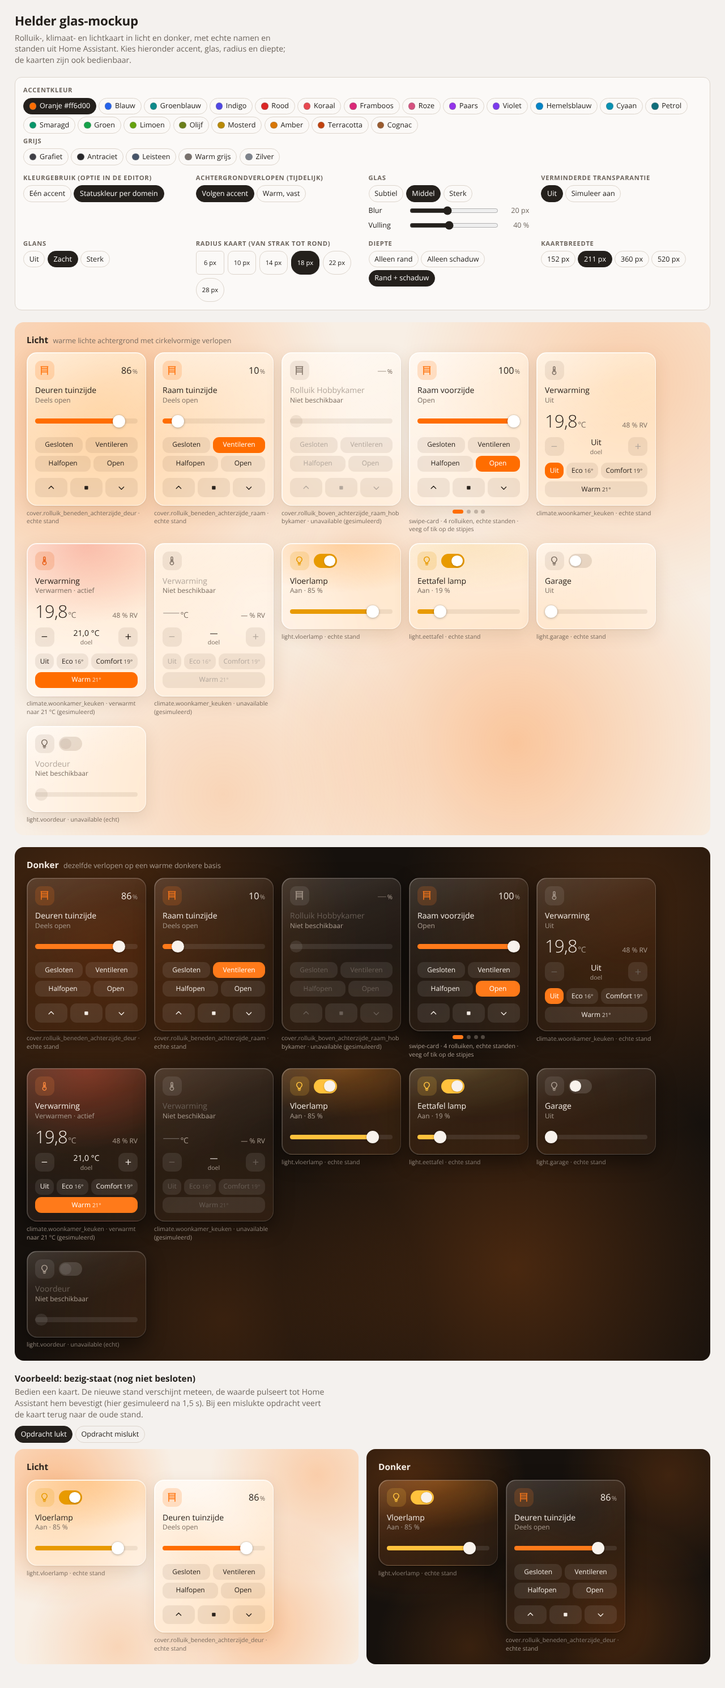
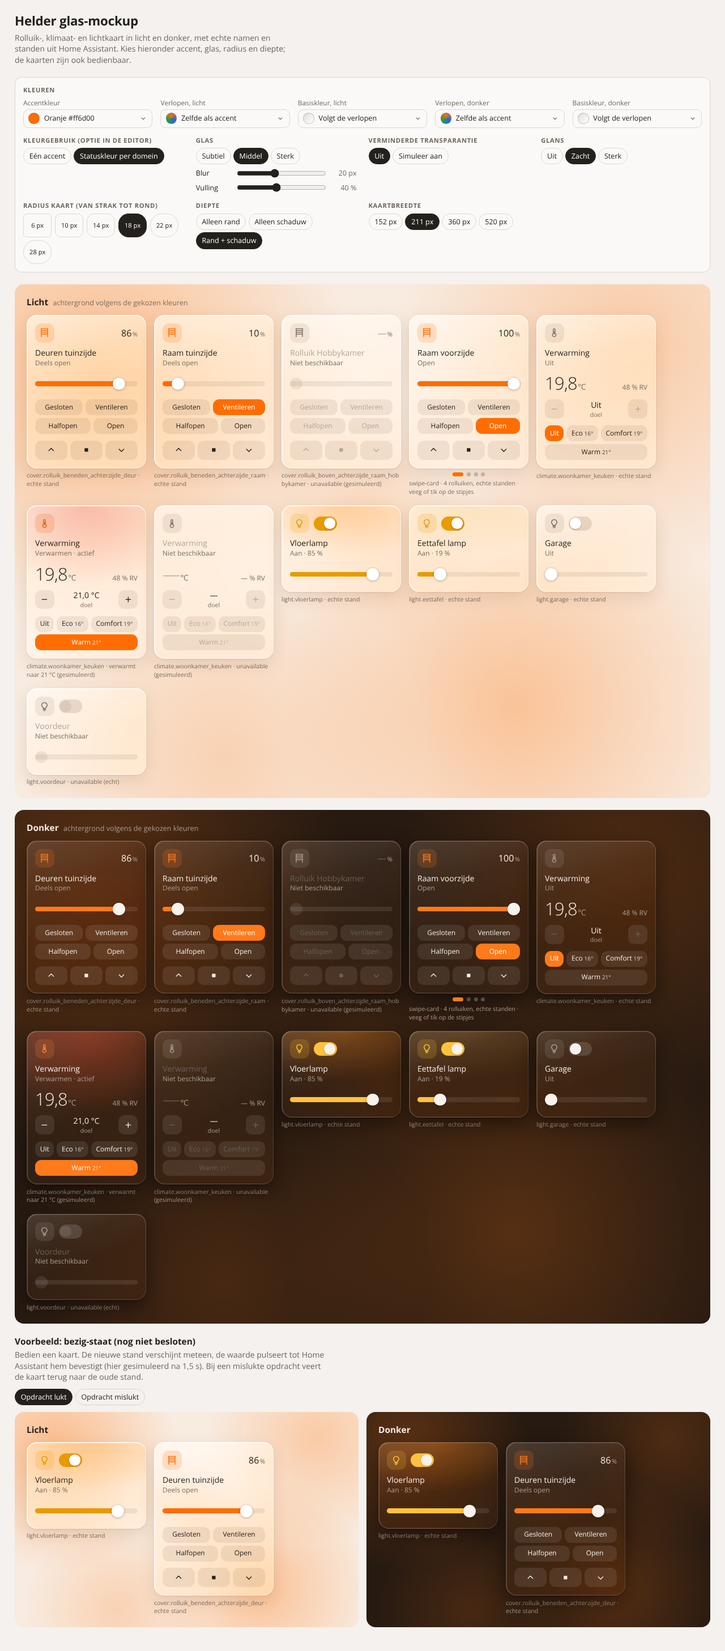
mockup: colour picker with wheel, light palette, separate gradient and base colours per mode; docs: settings page
Claude-Session: https://claude.ai/code/session_0188TZibxehgLpvZx4MTqWFe

diff --git a/mockup/glass.html b/mockup/glass.html
@@ -92,6 +92,45 @@ header p { margin: .3rem 0 0; color: var(--page-muted); max-width: 60ch; }
 .stage-title { display: flex; align-items: baseline; gap: .6rem; margin: 0 0 .8rem; font-size: 1.1rem; font-weight: 700; }
 .stage-title span { font-weight: 400; font-size: .9rem; color: var(--helder-color-text-muted); }
 
+/* ---------- Kleurkiezer (deel van de instellingenpagina) ---------- */
+.slots { display: grid; grid-template-columns: repeat(auto-fill, minmax(min(100%, 14rem), 1fr)); gap: .5rem 1rem; }
+.slot { display: grid; gap: .25rem; min-width: 0; }
+.slot > span { font-size: .85rem; color: var(--page-muted); }
+.swbtn {
+  font: inherit; font-size: .9rem; display: flex; align-items: center; gap: .55rem; min-width: 0;
+  padding: .4rem .6rem; border-radius: 10px; border: 1px solid var(--page-line); background: transparent; color: var(--page-fg); cursor: pointer; text-align: left;
+}
+.swbtn .sw { width: 1.4rem; height: 1.4rem; flex: none; }
+.swbtn .swname { flex: 1; min-width: 0; white-space: nowrap; overflow: hidden; text-overflow: ellipsis; }
+.swbtn svg { width: 1rem; height: 1rem; flex: none; color: var(--page-muted); }
+.swbtn:focus-visible { outline: 2px solid var(--page-fg); outline-offset: 2px; }
+.popwrap { position: fixed; inset: 0; z-index: 30; display: grid; place-items: center; padding: 16px; background: rgba(20, 16, 12, .35); }
+.pop {
+  width: min(30rem, 100%); max-height: calc(100vh - 32px); overflow: auto; display: grid; gap: .9rem;
+  background: var(--page-panel); color: var(--page-fg); border: 1px solid var(--page-line); border-radius: 14px;
+  box-shadow: 0 16px 48px rgba(0, 0, 0, .3); padding: 1rem 1.1rem 1.1rem;
+}
+.pop h3 { margin: 0; font-size: 1.05rem; font-weight: 700; }
+.pop .grp { display: grid; gap: .35rem; }
+.swgrid { display: grid; grid-template-columns: repeat(auto-fill, 1.9rem); gap: .45rem; }
+.swatch { width: 1.9rem; height: 1.9rem; border-radius: 50%; border: 1px solid rgba(127, 127, 127, .35); cursor: pointer; padding: 0; }
+.swatch[aria-pressed="true"] { outline: 2px solid var(--page-fg); outline-offset: 2px; }
+.swatch:focus-visible { outline: 2px solid var(--page-fg); outline-offset: 2px; }
+.wheelrow { display: flex; flex-wrap: wrap; gap: 1rem; align-items: flex-start; }
+.wheel { width: 10.5rem; height: 10.5rem; position: relative; flex: none; touch-action: none; cursor: crosshair; }
+.wheel canvas { width: 100%; height: 100%; border-radius: 50%; display: block; }
+.wheel .mark { position: absolute; width: 1rem; height: 1rem; margin: -.5rem 0 0 -.5rem; border-radius: 50%; border: 2px solid #fff; box-shadow: 0 0 0 1px rgba(0,0,0,.4), 0 1px 3px rgba(0,0,0,.4); pointer-events: none; }
+.wheelside { display: grid; gap: .55rem; flex: 1 1 11rem; min-width: 0; }
+.wheelside label { display: grid; gap: .2rem; font-size: .85rem; color: var(--page-muted); }
+.hexin { font: inherit; font-size: 16px; padding: .35rem .5rem; border-radius: 8px; border: 1px solid var(--page-line); background: var(--page-bg); color: var(--page-fg); width: 100%; }
+.pv { display: grid; grid-template-columns: 1fr 1fr; gap: .4rem; }
+.pvbox { border-radius: 10px; padding: .6rem; display: grid; gap: .45rem; min-height: 4.6rem; align-content: end; }
+.pvbox .pchip { justify-self: start; font-size: .8rem; padding: .25rem .6rem; border-radius: 8px; }
+.pvbox .pbar { height: .4rem; border-radius: 999px; }
+.popbtns { display: flex; justify-content: flex-end; gap: .5rem; flex-wrap: wrap; }
+.popbtns button { font: inherit; font-size: .9rem; padding: .45rem .9rem; border-radius: 999px; border: 1px solid var(--page-line); background: transparent; color: var(--page-fg); cursor: pointer; }
+.popbtns button.primary { background: var(--page-sel); color: var(--page-on-sel); border-color: var(--page-sel); }
+
 /* ---------- Helder-tokens per modus ---------- */
 .stage {
   /* waarden die het paneel zet */
@@ -161,7 +200,7 @@ header p { margin: .3rem 0 0; color: var(--page-muted); max-width: 60ch; }
 /* accentkleur: per modus gezet vanuit het paneel (zie ACCENTS in het script) */
 /* achtergrondkleur: los van het accent te kiezen. "Warm" houdt de vaste warme verlopen; anders kleuren de
    verlopen én (licht) de basis mee met --helder-bg-tint. */
-[data-bg="tint"] .stage[data-mode="light"] {
+.stage[data-bg="tint"][data-mode="light"] {
   --helder-color-bg: color-mix(in srgb, var(--helder-bg-tint) 7%, #f8f4f0);
   --helder-bg-blob-1: color-mix(in srgb, var(--helder-bg-tint) 38%, transparent);
   --helder-bg-blob-2: color-mix(in srgb, var(--helder-bg-tint) 26%, transparent);
@@ -169,7 +208,7 @@ header p { margin: .3rem 0 0; color: var(--page-muted); max-width: 60ch; }
   --helder-bg-blob-4: color-mix(in srgb, var(--helder-bg-tint) 20%, transparent);
   --helder-bg-blob-5: color-mix(in srgb, var(--helder-bg-tint) 16%, transparent);
 }
-[data-bg="tint"] .stage[data-mode="dark"] {
+.stage[data-bg="tint"][data-mode="dark"] {
   --helder-color-bg: color-mix(in srgb, var(--helder-bg-tint) 8%, #141210);
   --helder-bg-blob-1: color-mix(in srgb, var(--helder-bg-tint) 26%, transparent);
   --helder-bg-blob-2: color-mix(in srgb, var(--helder-bg-tint) 18%, transparent);
@@ -389,7 +428,7 @@ figcaption b { font-weight: 400; }
 @media (prefers-reduced-motion: reduce) { .switch::after { transition: none; } }
 </style>
 
-<div class="wrap" id="app" data-accent="orange" data-colors="domain" data-depth="both" data-bg="tint">
+<div class="wrap" id="app" data-accent="orange" data-colors="domain" data-depth="both">
   <header>
     <h1>Helder glas-mockup</h1>
     <p>Rolluik-, klimaat- en lichtkaart in licht en donker, met echte namen en standen uit Home Assistant. Kies hieronder accent, glas, radius en diepte; de kaarten zijn ook bedienbaar.</p>
@@ -397,20 +436,14 @@ figcaption b { font-weight: 400; }
 
   <section class="panel" aria-label="Instellingen">
     <div class="ctl" style="grid-column: 1 / -1">
-      <span class="lbl">Accentkleur</span>
-      <div class="seg" data-set="accent" data-group="color"></div>
-      <span class="lbl">Grijs</span>
-      <div class="seg" data-set="accent" data-group="grey"></div>
-    </div>
-    <div class="ctl" style="grid-column: 1 / -1">
-      <span class="lbl">Achtergrondkleur (los van het accent)</span>
-      <div class="seg" data-set="bgc" data-group="special">
-        <button data-v="warm"><i class="sw" style="background:linear-gradient(135deg,#ffb078,#f8efe5)"></i>Warm (oorspronkelijk)</button>
-        <button data-v="accent"><i class="sw" style="background:conic-gradient(#ff6d00,#2563eb,#16a34a,#ff6d00)"></i>Zelfde als accent</button>
+      <span class="lbl">Kleuren</span>
+      <div class="slots">
+        <div class="slot"><span>Accentkleur</span><button class="swbtn" data-open="accent" aria-haspopup="dialog"><i class="sw"></i><span class="swname"></span><svg viewBox="0 0 24 24" fill="none" stroke="currentColor" stroke-width="2" stroke-linecap="round" stroke-linejoin="round"><path d="M7 10l5 5 5-5"/></svg></button></div>
+        <div class="slot"><span>Verlopen, licht</span><button class="swbtn" data-open="bgL" aria-haspopup="dialog"><i class="sw"></i><span class="swname"></span><svg viewBox="0 0 24 24" fill="none" stroke="currentColor" stroke-width="2" stroke-linecap="round" stroke-linejoin="round"><path d="M7 10l5 5 5-5"/></svg></button></div>
+        <div class="slot"><span>Basiskleur, licht</span><button class="swbtn" data-open="baseL" aria-haspopup="dialog"><i class="sw"></i><span class="swname"></span><svg viewBox="0 0 24 24" fill="none" stroke="currentColor" stroke-width="2" stroke-linecap="round" stroke-linejoin="round"><path d="M7 10l5 5 5-5"/></svg></button></div>
+        <div class="slot"><span>Verlopen, donker</span><button class="swbtn" data-open="bgD" aria-haspopup="dialog"><i class="sw"></i><span class="swname"></span><svg viewBox="0 0 24 24" fill="none" stroke="currentColor" stroke-width="2" stroke-linecap="round" stroke-linejoin="round"><path d="M7 10l5 5 5-5"/></svg></button></div>
+        <div class="slot"><span>Basiskleur, donker</span><button class="swbtn" data-open="baseD" aria-haspopup="dialog"><i class="sw"></i><span class="swname"></span><svg viewBox="0 0 24 24" fill="none" stroke="currentColor" stroke-width="2" stroke-linecap="round" stroke-linejoin="round"><path d="M7 10l5 5 5-5"/></svg></button></div>
       </div>
-      <div class="seg" data-set="bgc" data-group="color"></div>
-      <span class="lbl">Grijs</span>
-      <div class="seg" data-set="bgc" data-group="grey"></div>
     </div>
     <div class="ctl">
       <span class="lbl">Kleurgebruik (optie in de editor)</span>
@@ -468,11 +501,11 @@ figcaption b { font-weight: 400; }
   </section>
 
   <section class="stage" data-mode="light" aria-label="Lichte modus">
-    <h2 class="stage-title">Licht <span>warme lichte achtergrond met cirkelvormige verlopen</span></h2>
+    <h2 class="stage-title">Licht <span>achtergrond volgens de gekozen kleuren</span></h2>
     <div class="cards"></div>
   </section>
   <section class="stage" data-mode="dark" aria-label="Donkere modus">
-    <h2 class="stage-title">Donker <span>dezelfde verlopen op een warme donkere basis</span></h2>
+    <h2 class="stage-title">Donker <span>achtergrond volgens de gekozen kleuren</span></h2>
     <div class="cards"></div>
   </section>
 
@@ -695,6 +728,18 @@ figcaption b { font-weight: 400; }
     ['amber', 'Amber', '#d97706', '#fbbf24', 'color'],
     ['terracotta', 'Terracotta', '#c2410c', '#f0835a', 'color'],
     ['cognac', 'Cognac', '#9a5b2e', '#d0905a', 'color'],
+    ['peach', 'Perzik', '#ffb58a', '#ffc3a0', 'light'],
+    ['apricot', 'Abrikoos', '#ffc976', '#ffd591', 'light'],
+    ['salmon', 'Zalm', '#ff9e8f', '#ffb0a3', 'light'],
+    ['blush', 'Poederroze', '#f7b2c4', '#f9c3d1', 'light'],
+    ['lavender', 'Lavendel', '#b9a8f0', '#c7b9f5', 'light'],
+    ['lilac', 'Lila', '#d3a6e8', '#dcb7ee', 'light'],
+    ['babyblue', 'Babyblauw', '#9cc7f5', '#b0d3f7', 'light'],
+    ['iceblue', 'IJsblauw', '#a6e1ef', '#b8e8f3', 'light'],
+    ['mint', 'Mint', '#9fe0c0', '#b2e7cd', 'light'],
+    ['sage', 'Salie', '#b5c9a1', '#c4d4b3', 'light'],
+    ['lemon', 'Citroen', '#f3e27a', '#f6e992', 'light'],
+    ['sand', 'Zand', '#e3cfaa', '#e9d9bb', 'light'],
     ['graphite', 'Grafiet', '#3f3f46', '#d4d4d8', 'grey'],
     ['anthracite', 'Antraciet', '#27272a', '#e4e4e7', 'grey'],
     ['slate', 'Leisteen', '#475569', '#a8b6c9', 'grey'],
@@ -703,33 +748,75 @@ figcaption b { font-weight: 400; }
   ];
   const lum = hex => { const c = [1, 3, 5].map(i => parseInt(hex.slice(i, i + 2), 16) / 255).map(v => v <= .03928 ? v / 12.92 : ((v + .055) / 1.055) ** 2.4); return .2126 * c[0] + .7152 * c[1] + .0722 * c[2]; };
   const onAccent = hex => lum(hex) > .4 ? '#1c1814' : '#ffffff';
-  document.querySelectorAll('[data-set="accent"], [data-set="bgc"]:not([data-group="special"])').forEach(g => {
-    g.innerHTML = ACCENTS.filter(a => a[4] === g.dataset.group).map(([id, n, l]) => `<button data-v="${id}"><i class="sw" style="background:${l}"></i>${n}</button>`).join('');
-  });
+  // Kleurwaarden: een id uit ACCENTS, een eigen kleur '#rrggbb', of een speciale waarde per vak.
+  const hexToRgb = h => [1, 3, 5].map(i => parseInt(h.slice(i, i + 2), 16));
+  const rgbToHex = c => '#' + c.map(v => Math.round(Math.max(0, Math.min(255, v))).toString(16).padStart(2, '0')).join('');
+  const mix = (h, t, to = [255, 255, 255]) => rgbToHex(hexToRgb(h).map((v, i) => v + (to[i] - v) * t));
+  function hsvToHex(hh, ss, vv) {
+    const f = n => { const k = (n + hh / 60) % 6; return vv - vv * ss * Math.max(0, Math.min(k, 4 - k, 1)); };
+    return rgbToHex([f(5), f(3), f(1)].map(x => x * 255));
+  }
+  function hexToHsv(h) {
+    const [r, g, b] = hexToRgb(h).map(x => x / 255), mx = Math.max(r, g, b), mn = Math.min(r, g, b), d = mx - mn;
+    let hh = 0;
+    if (d) hh = mx === r ? ((g - b) / d) % 6 : mx === g ? (b - r) / d + 2 : (r - g) / d + 4;
+    return [(hh * 60 + 360) % 360, mx ? d / mx : 0, mx];
+  }
+  const isHex = v => /^#[0-9a-f]{6}$/i.test(v);
+  // Eigen kleur: in donker wordt een donkere kleur iets lichter, zodat hij op de donkere basis leesbaar blijft.
+  function hexOf(v, mode) {
+    if (isHex(v)) return mode === 'dark' && lum(v) < .18 ? mix(v, .22) : v.toLowerCase();
+    const a = ACCENTS.find(x => x[0] === v) || ACCENTS[0];
+    return mode === 'dark' ? a[3] : a[2];
+  }
+  const WARM_BASE = { light: '#f8efe5', dark: '#16110d' };
+  const SPECIAL = {
+    accent: [],
+    bg: [['warm', 'Warm (oorspronkelijk)', 'linear-gradient(135deg,#ffb078,#f8efe5)'], ['accent', 'Zelfde als accent', 'conic-gradient(#ff6d00,#2563eb,#16a34a,#ff6d00)']],
+    base: [['follow', 'Volgt de verlopen', 'linear-gradient(135deg,#ddd,#fff)'], ['warm', 'Warm (oorspronkelijk)', 'linear-gradient(135deg,#ffb078,#f8efe5)']]
+  };
+  const slotKind = k => k === 'accent' ? 'accent' : k.startsWith('bg') ? 'bg' : 'base';
+  const slotMode = k => k.endsWith('D') ? 'dark' : 'light';
+  const SLOTNAMES = { accent: 'Accentkleur', bgL: 'Verlopen, licht', baseL: 'Basiskleur, licht', bgD: 'Verlopen, donker', baseD: 'Basiskleur, donker' };
+  function describe(k, v) {
+    const sp = SPECIAL[slotKind(k)].find(x => x[0] === v);
+    if (sp) return { name: sp[1], bg: sp[2] };
+    if (isHex(v)) return { name: 'Eigen kleur ' + v.toLowerCase(), bg: v };
+    const a = ACCENTS.find(x => x[0] === v) || ACCENTS[0];
+    return { name: a[1], bg: slotMode(k) === 'dark' ? a[3] : a[2] };
+  }
 
   // ---------- Bedieningspaneel ----------
   const glassPresets = { subtle: [12, 55], medium: [20, 40], strong: [32, 25] };
   const radii = [6, 10, 14, 18, 22, 28];
-  const st = { accent: 'orange', colors: 'domain', glass: 'medium', blur: 20, fill: 40, radius: 18, depth: 'both', width: 211, bgc: 'accent', gloss: 0.45, rt: 'off', outcome: 'ok' };
-  try { Object.assign(st, JSON.parse(localStorage.getItem('helder-mockup') || '{}')); } catch (_) {}
+  const st = { accent: 'orange', colors: 'domain', glass: 'medium', blur: 20, fill: 40, radius: 18, depth: 'both', width: 211, bgL: 'accent', baseL: 'follow', bgD: 'accent', baseD: 'follow', gloss: 0.45, rt: 'off', outcome: 'ok' };
+  try { const saved = JSON.parse(localStorage.getItem('helder-mockup') || '{}'); if (saved.bgc) { saved.bgL = saved.bgD = saved.bgc; delete saved.bgc; } delete saved.bg; Object.assign(st, saved); } catch (_) {}
 
   document.querySelector('[data-set="radius"]').innerHTML = radii.map(r => `<button data-v="${r}" style="--r:${r}px">${r} px</button>`).join('');
   const blur = document.getElementById('blur'), fill = document.getElementById('fill');
 
   function apply() {
-    app.dataset.accent = st.accent; app.dataset.colors = st.colors; app.dataset.depth = st.depth; app.dataset.bg = st.bgc === 'warm' ? 'warm' : 'tint'; app.dataset.rt = st.rt;
+    app.dataset.accent = st.accent; app.dataset.colors = st.colors; app.dataset.depth = st.depth; app.dataset.rt = st.rt;
     stages.forEach(s => {
       s.el.style.setProperty('--glass-blur', st.blur + 'px');
       s.el.style.setProperty('--glass-alpha', st.fill / 100);
-      const ac = ACCENTS.find(a => a[0] === st.accent) || ACCENTS[0];
-      const hex = s.el.dataset.mode === 'dark' ? ac[3] : ac[2];
+      const mode = s.el.dataset.mode, M = mode === 'dark' ? 'D' : 'L';
+      const hex = hexOf(st.accent, mode);
       s.el.style.setProperty('--helder-color-accent', hex);
       s.el.style.setProperty('--helder-color-on-accent', onAccent(hex));
-      const bc = st.bgc === 'accent' ? ac : (ACCENTS.find(a => a[0] === st.bgc) || ac);
-      s.el.style.setProperty('--helder-bg-tint', s.el.dataset.mode === 'dark' ? bc[3] : bc[2]);
+      const bgv = st['bg' + M], basev = st['base' + M];
+      s.el.dataset.bg = bgv === 'warm' ? 'warm' : 'tint';
+      s.el.style.setProperty('--helder-bg-tint', bgv === 'accent' ? hex : bgv === 'warm' ? WARM_BASE[mode] : hexOf(bgv, mode));
+      if (basev === 'follow') s.el.style.removeProperty('--helder-color-bg');
+      else if (basev === 'warm') s.el.style.setProperty('--helder-color-bg', WARM_BASE[mode]);
+      else s.el.style.setProperty('--helder-color-bg', `color-mix(in srgb, ${hexOf(basev, mode)} ${mode === 'dark' ? 14 : 18}%, ${mode === 'dark' ? '#141210' : '#f8f4f0'})`);
       s.el.style.setProperty('--r', st.radius + 'px');
       s.el.style.setProperty('--gloss', st.gloss);
       s.el.style.setProperty('--card-w', st.width + 'px');
+    });
+    document.querySelectorAll('.swbtn').forEach(b => {
+      const d = describe(b.dataset.open, st[b.dataset.open]);
+      b.querySelector('.sw').style.background = d.bg; b.querySelector('.swname').textContent = d.name;
     });
     blur.value = st.blur; fill.value = st.fill;
     document.getElementById('blurOut').textContent = st.blur + ' px';
@@ -749,6 +836,82 @@ figcaption b { font-weight: 400; }
   }));
   blur.addEventListener('input', () => { st.blur = +blur.value; st.glass = ''; apply(); });
   fill.addEventListener('input', () => { st.fill = +fill.value; st.glass = ''; apply(); });
+  // ---------- Kleurkiezer: vaste kleuren, lichte kleuren, grijs en een eigen kleur via het kleurenwiel ----------
+  let pop = null;
+  function openPicker(k) {
+    const kind = slotKind(k), mode = slotMode(k);
+    const cur = st[k];
+    let [hh, ss, vv] = hexToHsv(isHex(cur) ? cur : (SPECIAL[kind].some(x => x[0] === cur) ? hexOf(st.accent, 'light') : hexOf(cur, 'light')));
+    const groups = [['color', 'Kleuren'], ['light', 'Licht'], ['grey', 'Grijs']];
+    const wrap = document.createElement('div');
+    wrap.className = 'popwrap';
+    wrap.innerHTML = `<div class="pop" role="dialog" aria-modal="true" aria-label="${SLOTNAMES[k]}">
+      <h3>${SLOTNAMES[k]}</h3>
+      ${SPECIAL[kind].length ? `<div class="seg">${SPECIAL[kind].map(([v, n, bg]) => `<button data-pick="${v}" aria-pressed="${cur === v}"><i class="sw" style="background:${bg}"></i>${n}</button>`).join('')}</div>` : ''}
+      ${groups.map(([g, n]) => `<div class="grp"><span class="lbl">${n}</span><div class="swgrid">${ACCENTS.filter(a => a[4] === g).map(a => `<button class="swatch" data-pick="${a[0]}" title="${a[1]}" aria-label="${a[1]}" aria-pressed="${cur === a[0]}" style="background:${mode === 'dark' ? a[3] : a[2]}"></button>`).join('')}</div></div>`).join('')}
+      <div class="grp"><span class="lbl">Eigen kleur</span>
+        <div class="wheelrow">
+          <div class="wheel" aria-label="Kleurenwiel"><canvas width="336" height="336"></canvas><span class="mark"></span></div>
+          <div class="wheelside">
+            <label>Helderheid <input class="rng" type="range" min="10" max="100" step="1" data-v-slider></label>
+            <label>Hex <input class="hexin" type="text" inputmode="text" maxlength="7" spellcheck="false" aria-label="Hexcode"></label>
+            <div class="pv">
+              <div class="pvbox" data-pv="light"><span class="pchip">Actief</span><span class="pbar"></span></div>
+              <div class="pvbox" data-pv="dark"><span class="pchip">Actief</span><span class="pbar"></span></div>
+            </div>
+          </div>
+        </div>
+      </div>
+      <div class="popbtns"><button data-close>Sluiten</button><button class="primary" data-apply>Eigen kleur toepassen</button></div>
+    </div>`;
+    document.body.appendChild(wrap); pop = wrap;
+    const cv = wrap.querySelector('canvas'), ctx = cv.getContext('2d'), mark = wrap.querySelector('.mark');
+    const vs = wrap.querySelector('[data-v-slider]'), hexIn = wrap.querySelector('.hexin');
+    function drawWheel() {
+      const n = cv.width, r = n / 2, img = ctx.createImageData(n, n);
+      for (let y = 0; y < n; y++) for (let x = 0; x < n; x++) {
+        const dx = x - r, dy = y - r, d = Math.sqrt(dx * dx + dy * dy), i = (y * n + x) * 4;
+        if (d > r) { img.data[i + 3] = 0; continue; }
+        const c = hexToRgb(hsvToHex((Math.atan2(dy, dx) * 180 / Math.PI + 360) % 360, d / r, vv));
+        img.data[i] = c[0]; img.data[i + 1] = c[1]; img.data[i + 2] = c[2]; img.data[i + 3] = 255;
+      }
+      ctx.putImageData(img, 0, 0);
+    }
+    function sync(fromHex) {
+      const h = hsvToHex(hh, ss, vv);
+      const a = hh * Math.PI / 180;
+      mark.style.left = (50 + Math.cos(a) * ss * 50) + '%'; mark.style.top = (50 + Math.sin(a) * ss * 50) + '%';
+      mark.style.background = h; vs.value = Math.round(vv * 100);
+      if (!fromHex) hexIn.value = h;
+      wrap.querySelectorAll('.pvbox').forEach(b => {
+        const m = b.dataset.pv, c = kind === 'accent' ? hexOf(h, m) : h;
+        b.style.background = `radial-gradient(circle at 25% 15%, ${c}${kind === 'accent' ? '33' : '99'} 0, transparent 65%), ${m === 'dark' ? WARM_BASE.dark : '#f8f4f0'}`;
+        b.querySelector('.pchip').style.cssText = `background:${c};color:${onAccent(c)}`;
+        b.querySelector('.pbar').style.background = `linear-gradient(to right, ${c} 0 60%, ${m === 'dark' ? 'rgba(255,255,255,.12)' : 'rgba(90,60,30,.12)'} 60%)`;
+      });
+    }
+    function pickAt(ev) {
+      const rc = cv.getBoundingClientRect(), dx = ev.clientX - rc.left - rc.width / 2, dy = ev.clientY - rc.top - rc.height / 2;
+      hh = (Math.atan2(dy, dx) * 180 / Math.PI + 360) % 360; ss = Math.min(1, Math.sqrt(dx * dx + dy * dy) / (rc.width / 2)); sync();
+    }
+    const wheel = wrap.querySelector('.wheel');
+    wheel.addEventListener('pointerdown', ev => { wheel.setPointerCapture(ev.pointerId); pickAt(ev); });
+    wheel.addEventListener('pointermove', ev => { if (wheel.hasPointerCapture(ev.pointerId)) pickAt(ev); });
+    vs.addEventListener('input', () => { vv = +vs.value / 100; drawWheel(); sync(); });
+    hexIn.addEventListener('input', () => { const v = hexIn.value.trim(); if (isHex(v)) { [hh, ss, vv] = hexToHsv(v); drawWheel(); sync(true); } });
+    const close = () => { wrap.remove(); pop = null; document.querySelector(`.swbtn[data-open="${k}"]`).focus(); };
+    wrap.addEventListener('click', ev => {
+      if (ev.target === wrap || ev.target.closest('[data-close]')) return close();
+      const pk = ev.target.closest('[data-pick]');
+      if (pk) { st[k] = pk.dataset.pick; apply(); wrap.querySelectorAll('[data-pick]').forEach(b => b.setAttribute('aria-pressed', String(b === pk))); return; }
+      if (ev.target.closest('[data-apply]')) { st[k] = hsvToHex(hh, ss, vv); apply(); close(); }
+    });
+    wrap.addEventListener('keydown', ev => { if (ev.key === 'Escape') close(); });
+    drawWheel(); sync();
+    wrap.querySelector('button').focus();
+  }
+  document.querySelectorAll('.swbtn').forEach(b => b.addEventListener('click', () => openPicker(b.dataset.open)));
+
   // Voor screenshots: #width=360 enz. overschrijft de opgeslagen keuze.
   for (const [k, v] of new URLSearchParams(location.hash.slice(1))) {
     if (k in st) { st[k] = isNaN(+v) ? v : +v; if (k === 'glass') [st.blur, st.fill] = glassPresets[v]; }

diff --git a/docs/design.md b/docs/design.md
@@ -38,6 +38,7 @@ src/
   tokens/        tokens.ts (licht/donker) → build genereert themes/helder.yaml én de CSS-variabelen
   core/          base-card.ts (basisklasse), entity.ts, actions.ts, format.ts, register.ts
   ui/            gedeelde onderdelen (head, readout, toggle, slider, …) + styles/*.css
+  settings/      instellingenpagina (panel_custom) + opslag en live toepassen van de thema-instellingen
   shell/         restyling van HA's eigen pagina's
   cards/<naam>/  <naam>-card.ts (+ onderdelen)
   index.ts       entry: registreert kaarten en shell
@@ -46,6 +47,21 @@ deploy/deploy.sh uitrol naar HA
 ```
 - TypeScript + Lit 3 (meegebundeld, niet die van HA lenen), Vite, één ES-module `helder.js`.
 - Build draait in de Claude-werkomgeving; uitrol via `deploy.sh` in de Claude Code-app in HA.
+
+### Instellingenpagina
+- Eigen pagina "Helder" in de zijbalk via `panel_custom` in `configuration.yaml` (geen Python-integratie);
+  het element zit in `helder.js`. Alleen zichtbaar voor admins (`require_admin: true`).
+- Opslag centraal voor alle gebruikers en apparaten via HA's frontend-opslag: `frontend/set_system_data`
+  (alleen admin), `frontend/get_system_data` en `frontend/subscribe_system_data` (iedereen), sleutel `helder`.
+  Bron: `homeassistant/components/frontend/storage.py` (dev-branch, nog te controleren in de geïnstalleerde versie).
+- De bundle leest de instellingen bij het laden, abonneert zich op wijzigingen en zet de waarden live als
+  `--helder-*`-variabelen. `themes/helder.yaml` bevat de standaardwaarden, zodat alles ook zonder opgeslagen
+  instellingen werkt.
+- Instelbaar: accentkleur, verloopkleur en basiskleur (elk apart voor licht en donker), glas (blur, vulling),
+  glans, radius, diepte, standaard kleurgebruik, verminderde transparantie. Kleuren uit het vaste palet
+  (kleuren, licht, grijs) of een eigen kleur via kleurenwiel met hexveld en voorbeeld in licht en donker.
+- Het kleurgebruik in de kaarteditor staat standaard op de waarde van de instellingenpagina; een kaart kan
+  daarvan afwijken.
 
 ### Contract van de basisklasse
 - Levert `hass`, `config`, gemeten breedte, entity-resolutie, acties (`tap`/`hold`, standaard more-info), formattering.
@@ -103,4 +119,12 @@ deploy/deploy.sh uitrol naar HA
 | 2026-11-15 | Bezig-staat (pulserende waarde tot HA bevestigt, terugveren bij mislukken): eerst los voorbeeld in de mockup, nog niet besloten |
 | 2026-11-15 | Rolluikkaart op smalle breedte (152 px): presets als één knop met keuzemenu, met zichtbaar pijltje en rand zodat het meteen als dropdown herkenbaar is |
 | 2026-11-15 | Prestaties blur later meten op het oudste apparaat (iPhone 12 Pro Max); iPad is niet oud |
+| 2026-11-16 | Alle thema-instellingen worden configureerbaar op een eigen instellingenpagina in HA (fundament, deze thread) |
+| 2026-11-16 | Instellingen gelden centraal voor alle gebruikers en apparaten |
+| 2026-11-16 | Alleen admins zien en wijzigen de instellingenpagina |
+| 2026-11-16 | Accentkleur en achtergrondkleur los en onafhankelijk van elkaar te kiezen uit alle kleuren |
+| 2026-11-16 | Achtergrond: verloopkleur en basiskleur allebei instelbaar, elk apart voor licht en donker |
+| 2026-11-16 | Palet uitgebreid met twaalf lichte kleuren (perzik t/m zand) naast 21 kleuren en 5 grijzen |
+| 2026-11-16 | Vrije kleurkiezer met kleurenwiel, hexveld en voorbeeld in licht en donker |
+| 2026-11-16 | Kleurgebruik in de kaarteditor volgt standaard de instellingenpagina; per kaart te overschrijven |
 | 2026-11-15 | Fundamentwerk in deze thread op branch `claude/project-thread-ganvgt`; merge naar `main` na akkoord |
